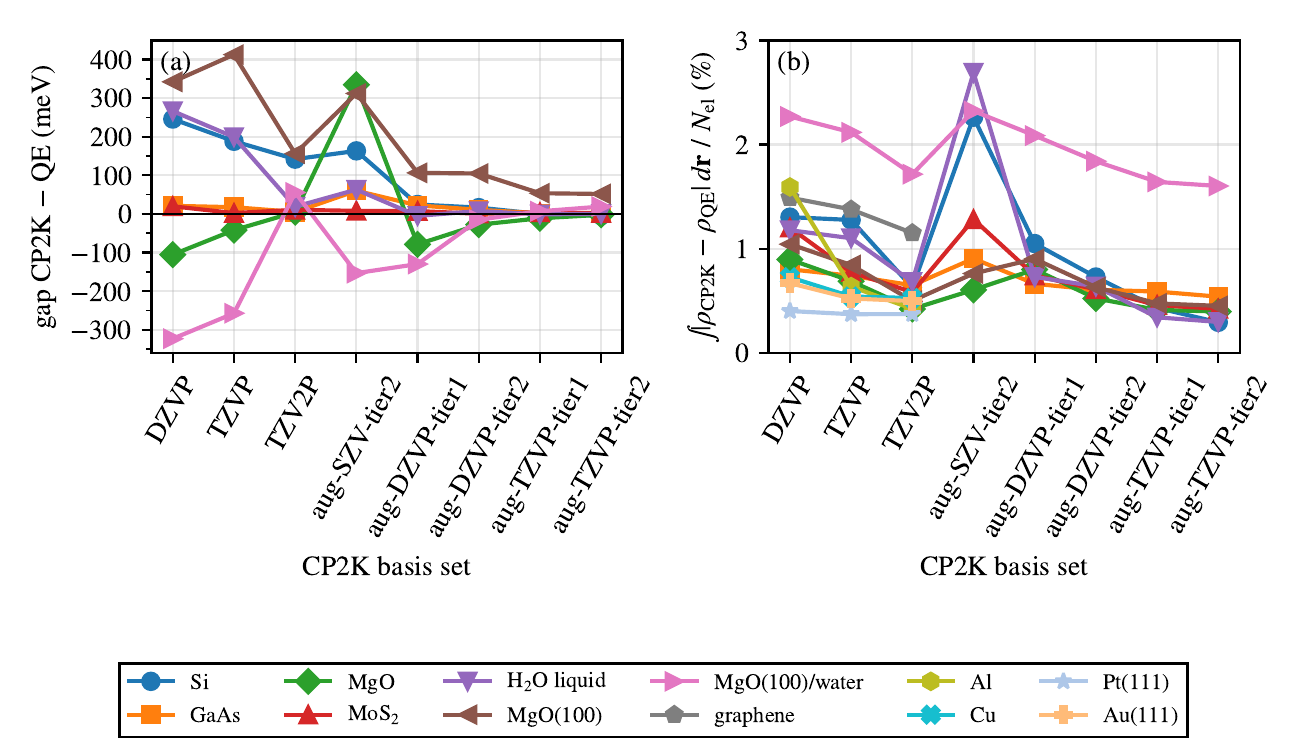
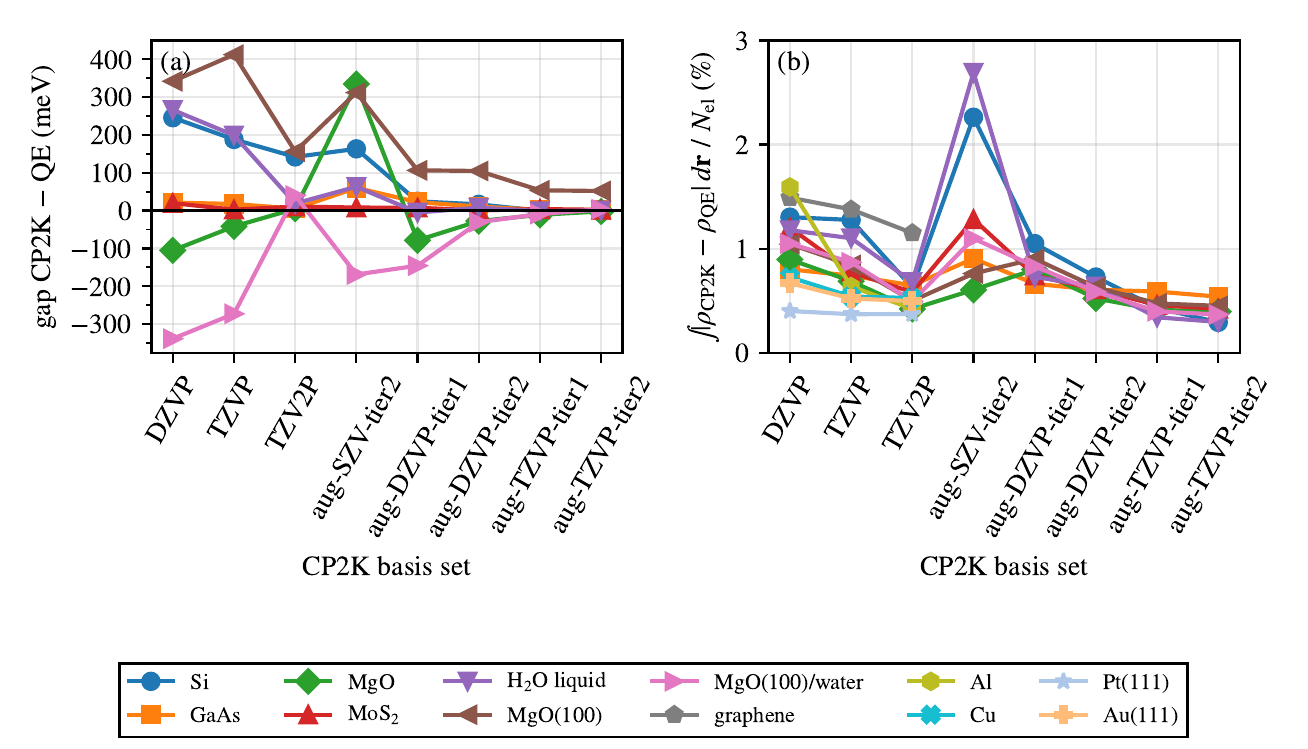
QE comparison: MgO(100)/water against QE at 800 Ry

diff --git a/README.md b/README.md
@@ -111,9 +111,12 @@ same structures and the Γ point. With aug-TZVP tier-2 the results agree as foll
 
 | Quantity | Systems | Agreement |
 |---|---|---|
-| HOMO–LUMO gap | Si, GaAs, MoS₂, liquid water, bulk MgO | within 5 meV |
+| HOMO–LUMO gap | Si, GaAs, MoS₂, liquid water, bulk MgO, MgO(100)/water | within 5 meV |
 | HOMO–LUMO gap | MgO(100) | 52 meV |
-| Electron density | all compared systems | 0.3–0.6 % of the electrons distributed differently |
+| Electron density | all seven systems with a gap | 0.3–0.5 % of the electrons distributed differently |
+
+QE uses the highest plane-wave cutoff that converged (200–800 Ry; MgO needs 600–800 Ry). In panel (a), metals and
+graphene are left out.
 
 ![CP2K vs Quantum ESPRESSO](closed_shell/figures/qe_compare.png)
 
